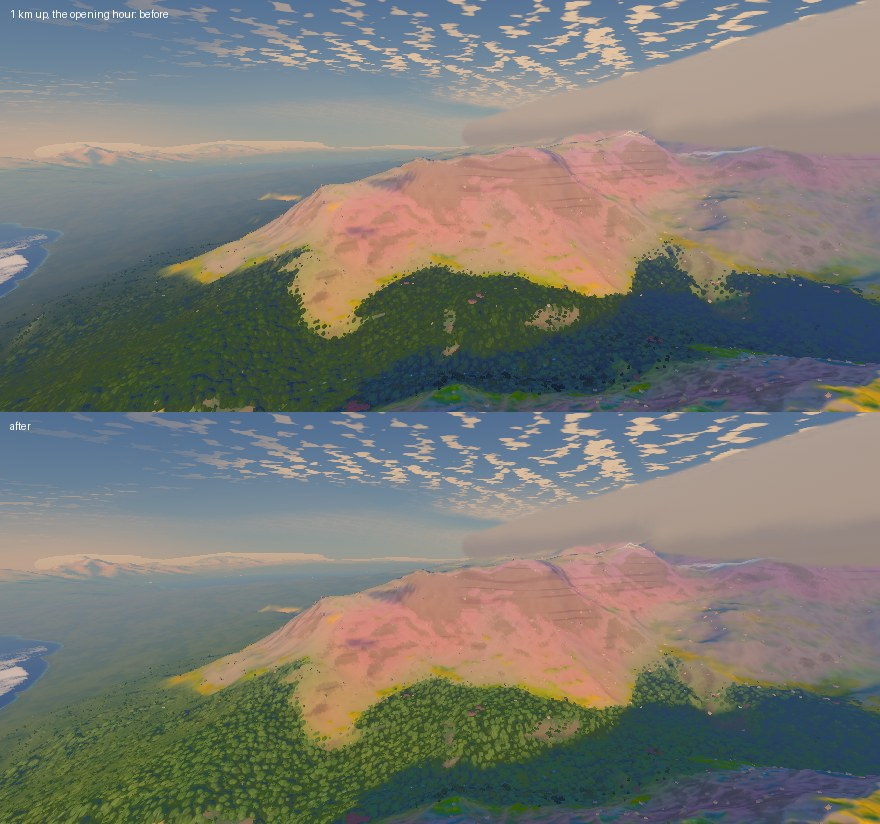
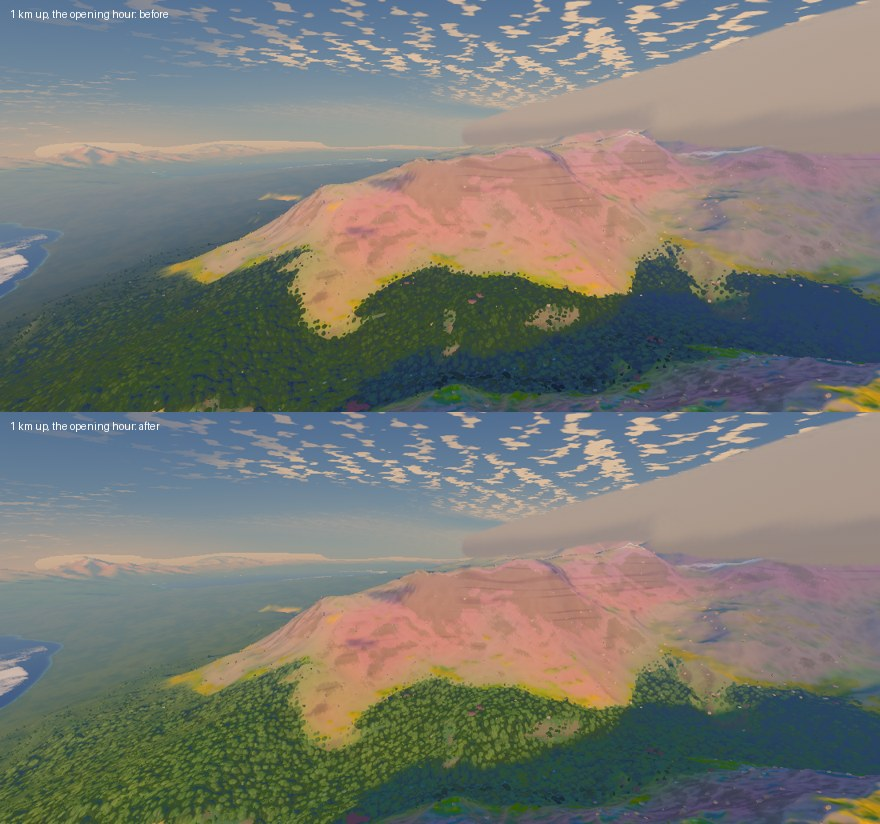
The plains from the air: more pairs (300 m, 90 m, dawn, the floor, 150 km); a wood looked down on from the air lifted from nearer (pictures of this last step still rendering: not checked yet)
Claude-Session: https://claude.ai/code/session_01R5Bri2SJsiHEniM3EYxxpQ

Changed region(s): [[0.0614, 0.5158, 0.092, 0.5461]]

diff --git a/src/life/farTreeForm.js b/src/life/farTreeForm.js
@@ -92,9 +92,15 @@ float farGreenW(float dist) { return smoothstep(300.0, 1300.0, dist); }
 // in the air layer by layer" begins with the wood's own tone: a rich mid green from afar,
 // the dark of a leaf only near by, where one is among the trees. Green leaves only.)
 const float FAR_LIFT = 3.0;
+const float FAR_ALOFT = 0.45;
 vec3 farGreen(vec3 leaf, float dist) {
   float green = 1.0 - smoothstep(0.0, 0.3, (leaf.r - leaf.g) / max(leaf.r, 1e-4));
   vec3 c = mix(leaf, dot(leaf, vec3(0.3, 0.6, 0.1)) * vec3(0.72, 0.88, 0.38), 0.7 * farGreenW(dist) * green);
-  return c * (1.0 + (FAR_LIFT - 1.0) * green * smoothstep(300.0, 2600.0, dist));
+  // (and from up in the air, uAloft of the lighting text, part of it from much nearer: a wood
+  // looked down on shows its crowns' tops, the most lit thing a tree has, and from 300 m up
+  // the wood a kilometre off was a quarter as bright as the meadow beside it. FAR_ALOFT of
+  // the lift from 80 m, all of it by 500 m. On foot nothing changes: uAloft is 0 there.)
+  float w = max(smoothstep(300.0, 2600.0, dist), FAR_ALOFT * uAloft * smoothstep(80.0, 500.0, dist));
+  return c * (1.0 + (FAR_LIFT - 1.0) * green * w);
 }
 `;
